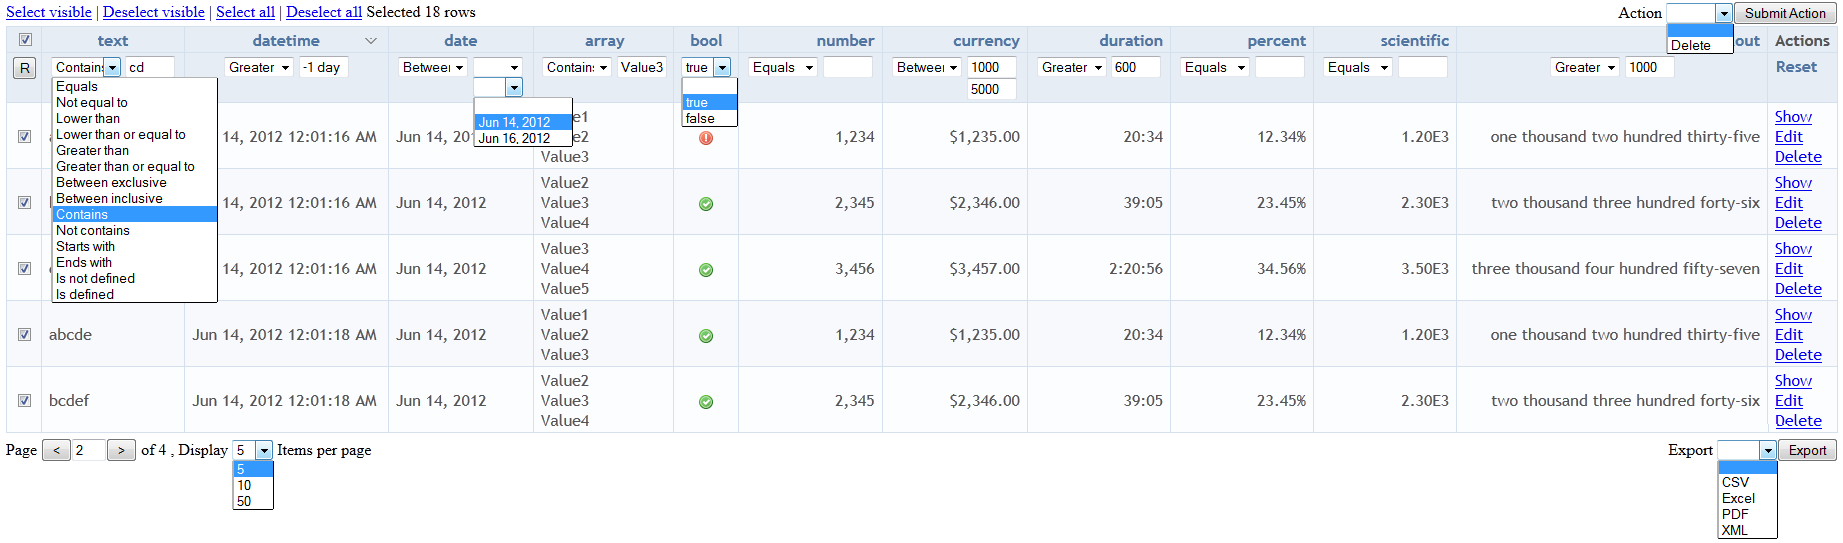
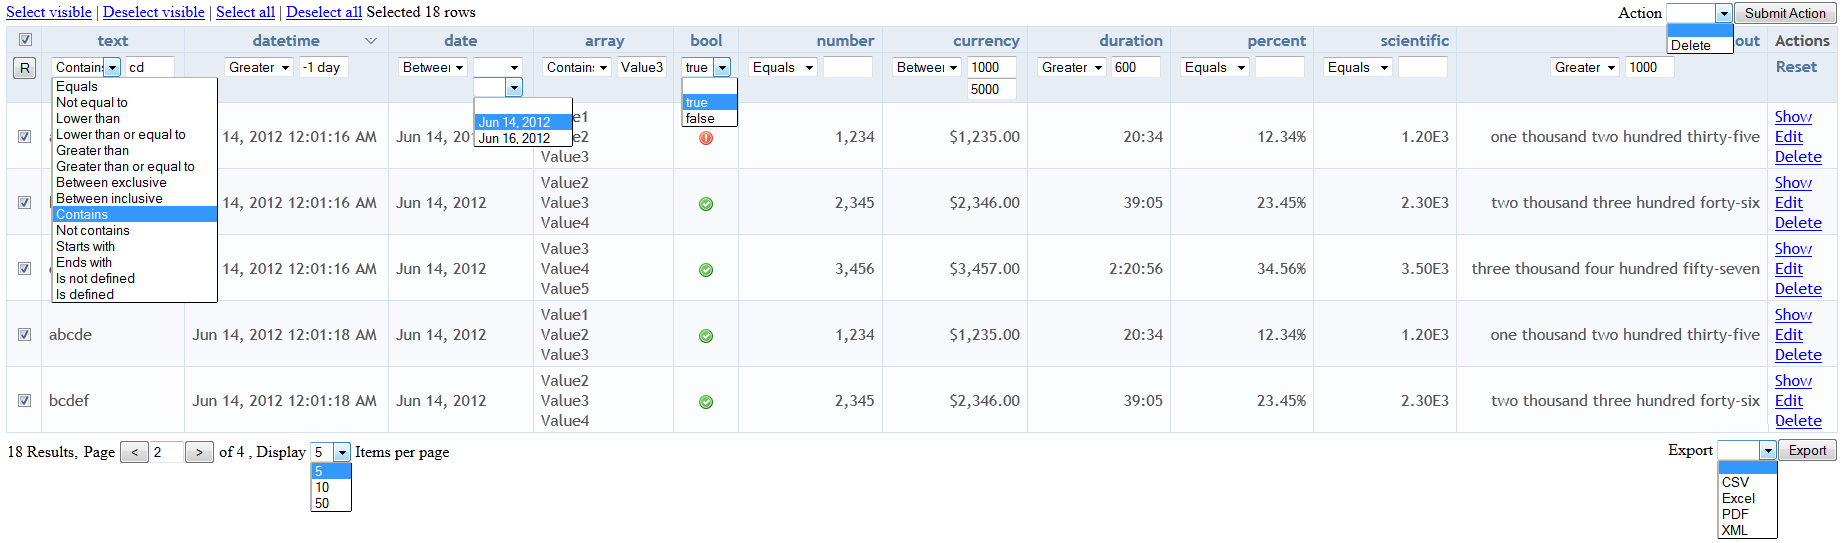
Add number of total results

Changed region(s): [[0.0, 0.7956, 0.2474, 0.9429]]

diff --git a/CHANGELOG.md b/CHANGELOG.md
@@ -10,6 +10,7 @@
  * Add a reset button in the grid search box
  * Update screenshots
  * [BC Break] Pass the grid object to the cell and filter blocks instead of the hash of the grid
+ * Add number of total results
 
 `16 Jun 2012`
 
